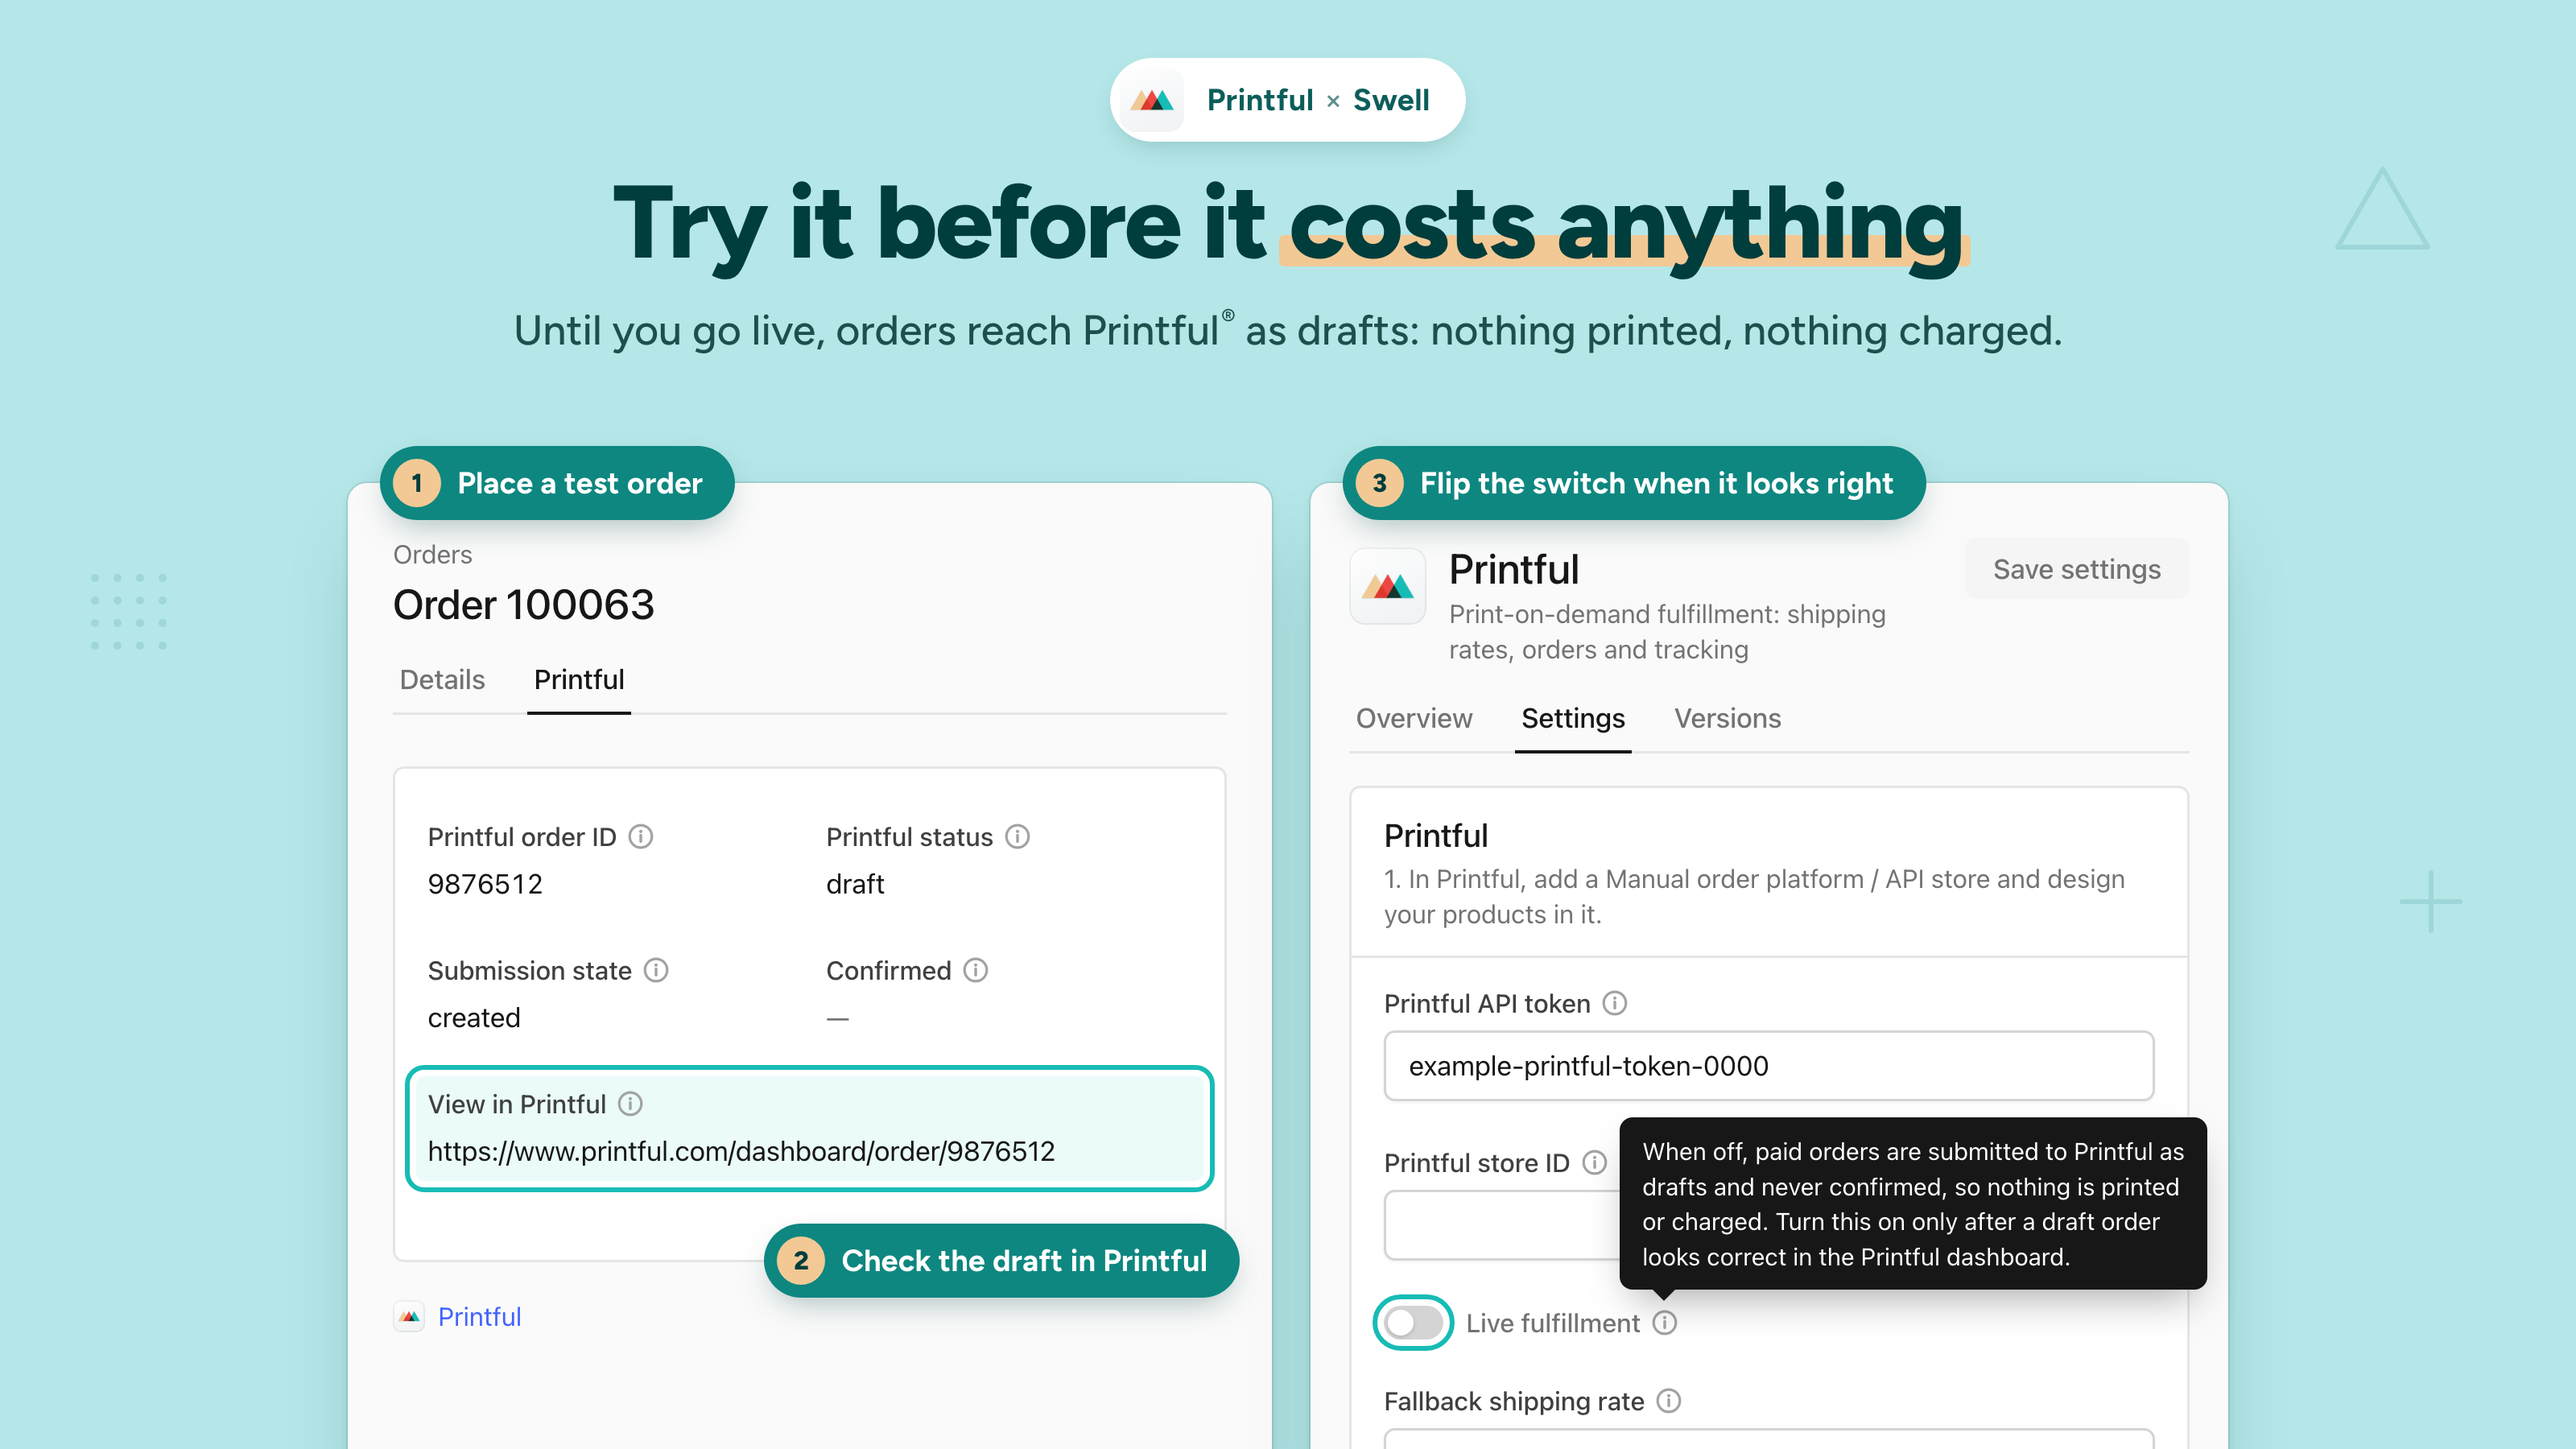
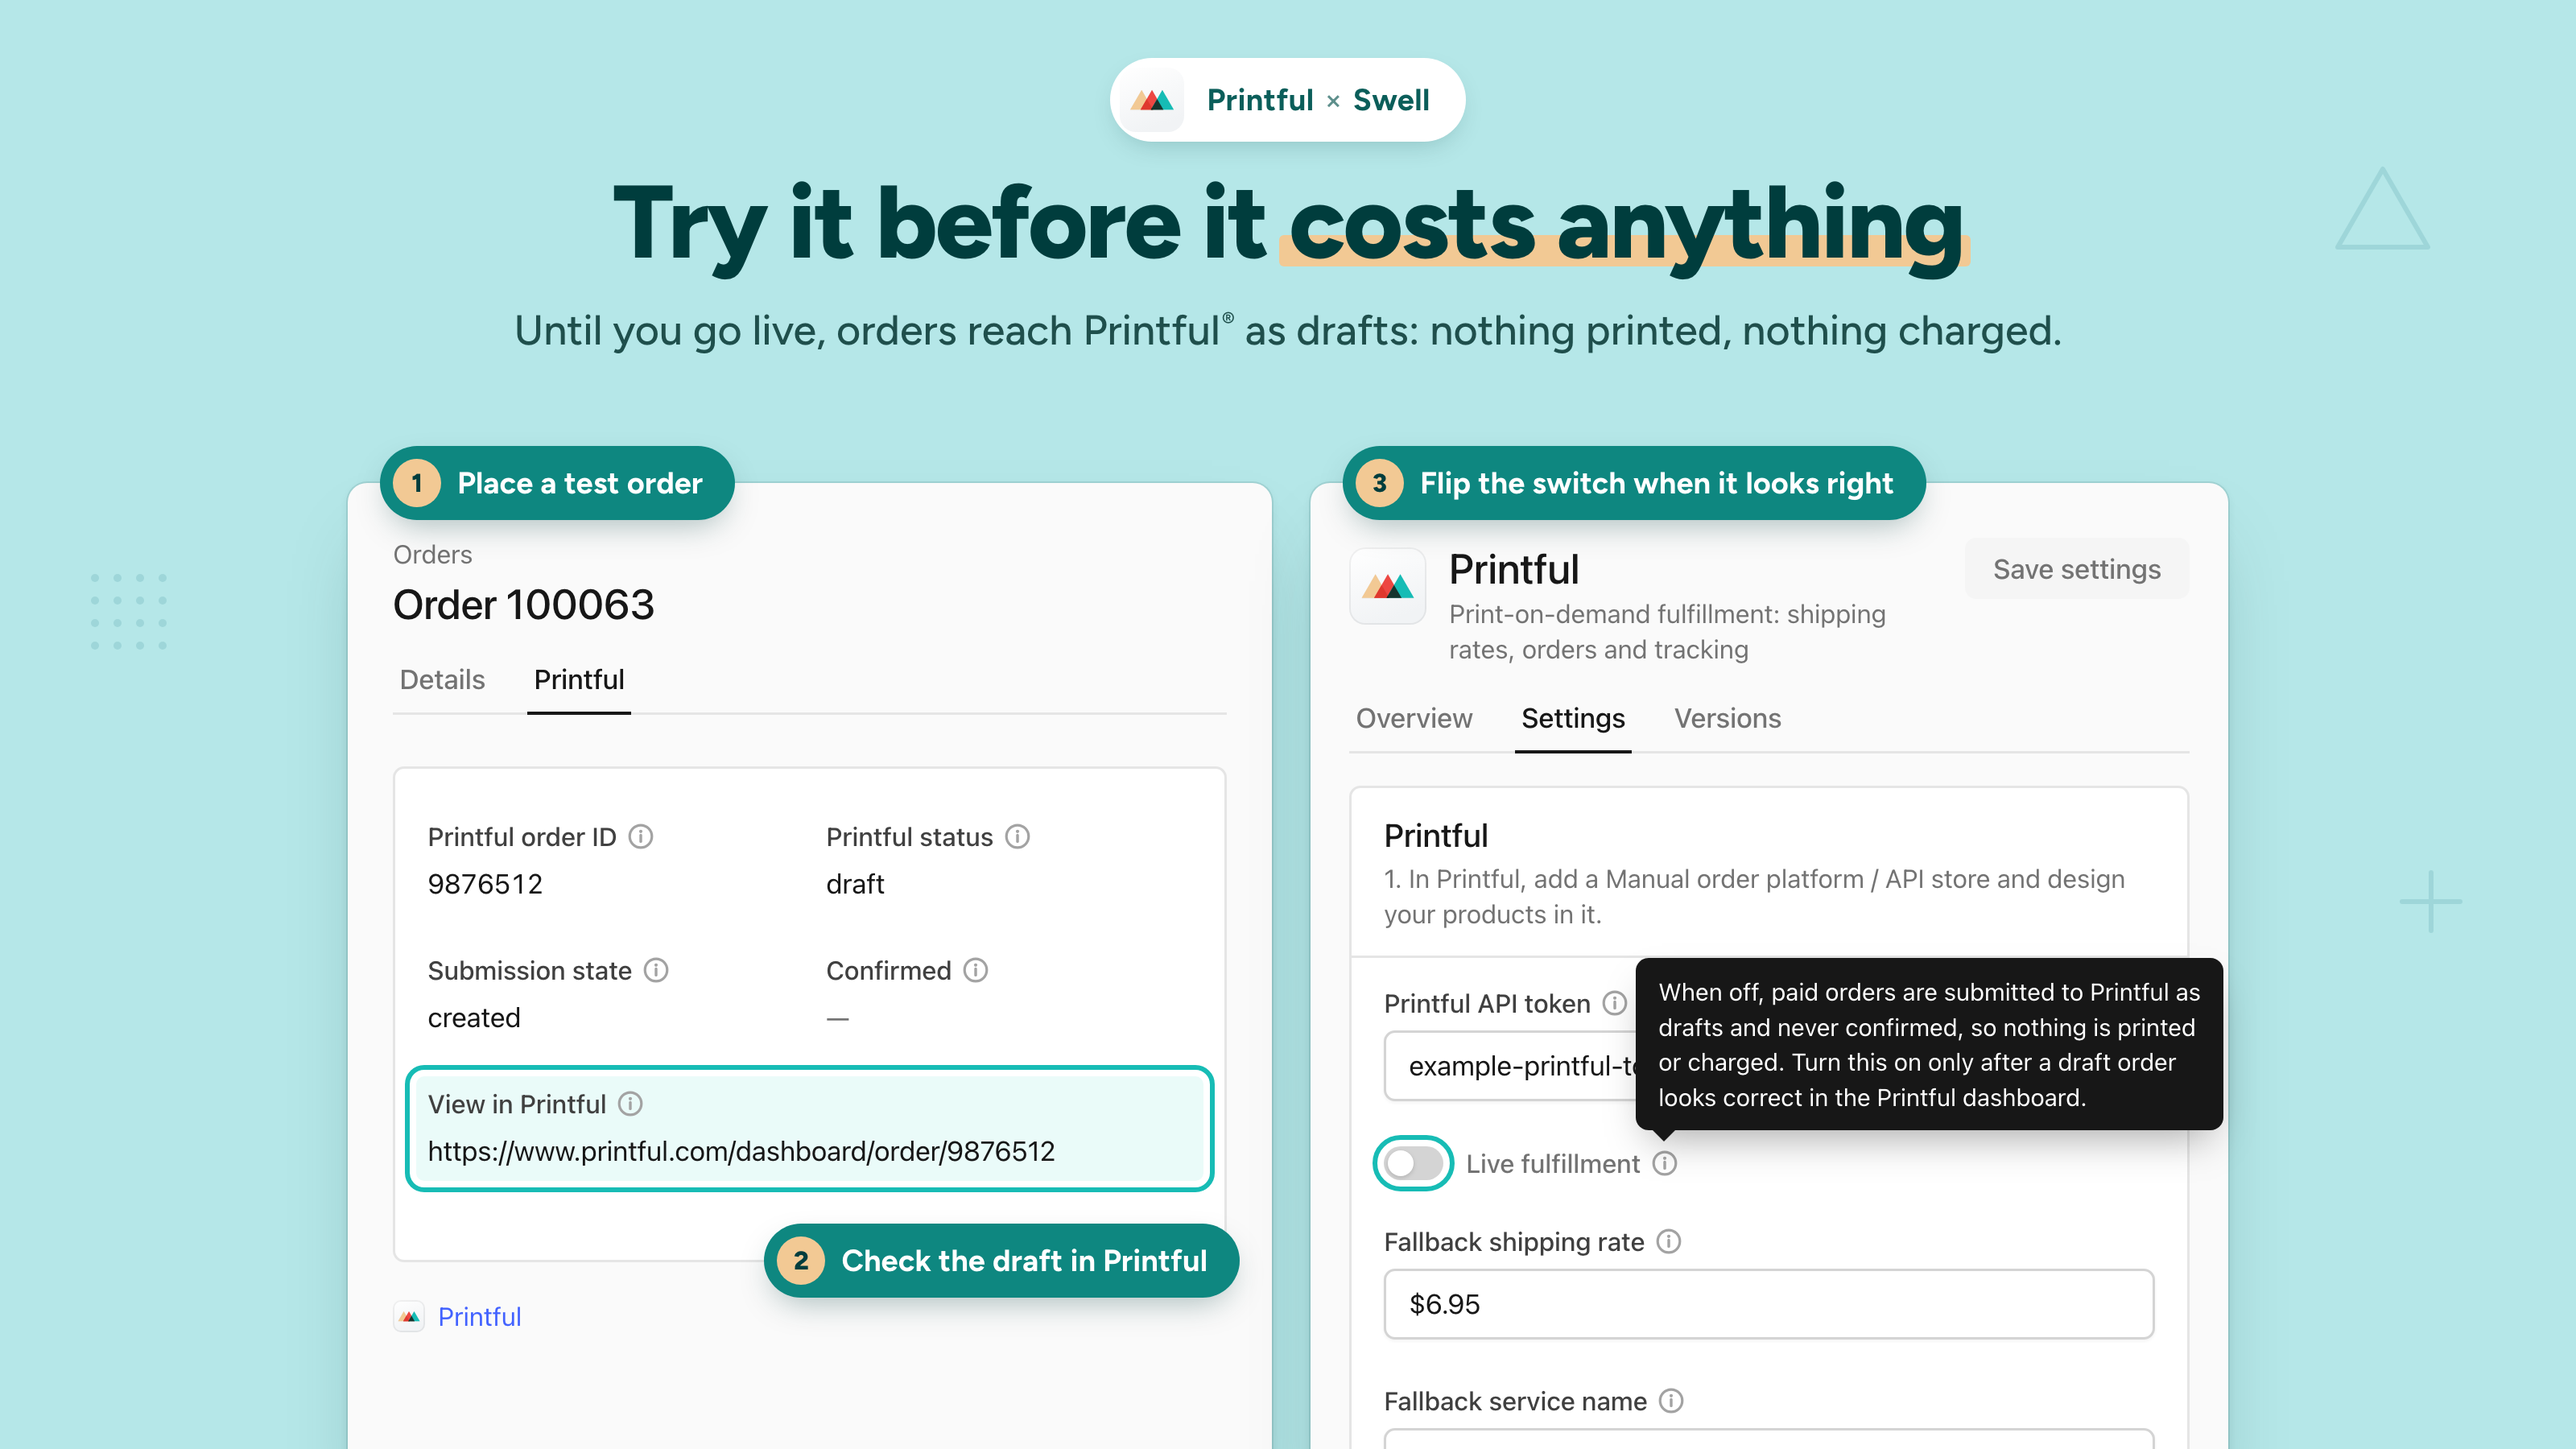
Require a store-level Printful token and drop the store ID setting
The Printful store ID was only needed for account-wide tokens. Tokens must
now have access to the one Manual order platform / API store, which
selects the store by itself, so the setting, the X-PF-Store-Id header and
the client's store parameter are gone. Listing image 3 no longer shows the
field.

diff --git a/functions/lib/printful.ts b/functions/lib/printful.ts
@@ -45,9 +45,7 @@ function hash(value: string): string {
 
 /**
  * Identifies the budget a reading belongs to. Printful counts per token, so the
- * token alone is the key: one account-level token used against two Printful
- * store ids spends one budget, and keying by store as well would file the two
- * halves separately and let the app walk into a 429 it could have predicted.
+ * token alone is the key.
  */
 export function rateLimitKey(token: string): string {
   return hash(token);
@@ -121,17 +119,17 @@ export interface PrintfulRate {
   max_delivery_days?: number;
 }
 
+/**
+ * Talks to one Printful store. The app requires a store-level token, which
+ * needs no store header: the token itself selects the store.
+ */
 export default class Printful {
   #token: string;
-  #storeId: string | undefined;
   #signal: AbortSignal | undefined;
   #rateLimitKey: string;
 
-  constructor(token: string, storeId?: string, signal?: AbortSignal) {
+  constructor(token: string, signal?: AbortSignal) {
     this.#token = token;
-    // Only account-level tokens accept a store header; sending it with a
-    // store-level token is rejected.
-    this.#storeId = storeId || undefined;
     this.#signal = signal;
     this.#rateLimitKey = rateLimitKey(token);
   }
@@ -141,10 +139,6 @@ export default class Printful {
       Authorization: `Bearer ${this.#token}`,
       Accept: "application/json",
     });
-
-    if (this.#storeId) {
-      headers.set("X-PF-Store-Id", this.#storeId);
-    }
 
     if (body !== undefined) {
       headers.set("Content-Type", "application/json");

diff --git a/functions/lib/products.ts b/functions/lib/products.ts
@@ -769,7 +769,7 @@ export async function runProductSync(
   settings: PrintfulSettings,
   options: { budget?: number } = {},
 ): Promise<SyncResult> {
-  const printful = new Printful(settings.api_token as string, settings.store_id);
+  const printful = new Printful(settings.api_token as string);
 
   const budget: Budget = {
     used: 0,
@@ -874,7 +874,7 @@ export async function resyncProducts(
   products: any[],
   options: { replaceImages?: boolean } = {},
 ): Promise<ResyncResult> {
-  const printful = new Printful(settings.api_token as string, settings.store_id);
+  const printful = new Printful(settings.api_token as string);
 
   const budget: Budget = {
     used: 0,

diff --git a/functions/shipping-rates.ts b/functions/shipping-rates.ts
@@ -122,11 +122,7 @@ export default async function (req: SwellRequest) {
     const timer = setTimeout(() => controller.abort(), remainingMs);
 
     try {
-      const printful = new Printful(
-        settings.api_token,
-        settings.store_id,
-        controller.signal,
-      );
+      const printful = new Printful(settings.api_token, controller.signal);
 
       const response = await printful.getShippingRates({
         recipient,

diff --git a/functions/product-sync-run.ts b/functions/product-sync-run.ts
@@ -46,10 +46,7 @@ async function registerWebhook(
     options.url ||
     `${String(req.store.url).replace(/\/+$/, "")}/functions/${req.appId}/printful-webhook`;
 
-  const printful = new Printful(
-    settings.api_token as string,
-    settings.store_id,
-  );
+  const printful = new Printful(settings.api_token as string);
 
   const result = await printful.createWebhook({
     default_url: url,

diff --git a/functions/printful-event-handle.ts b/functions/printful-event-handle.ts
@@ -202,10 +202,7 @@ export default async function (req: SwellRequest) {
   }
 
   const settings = await getSettings(req);
-  const printful = new Printful(
-    settings.api_token as string,
-    settings.store_id,
-  );
+  const printful = new Printful(settings.api_token as string);
   const data = event.data ?? {};
 
   try {

diff --git a/test/unit/mapping.test.ts b/test/unit/mapping.test.ts
@@ -25,7 +25,7 @@ function driveCreate(orderItems: any[], links: VariantLink[]) {
 
   const get = vi.fn(async (url: string) => {
     if (url.startsWith("/settings/")) {
-      return { api_token: "token", store_id: "1" };
+      return { api_token: "token" };
     }
 
     if (url === "/orders/{id}") {

diff --git a/functions/fulfillment-advance.ts b/functions/fulfillment-advance.ts
@@ -271,7 +271,7 @@ export default async function (req: SwellRequest) {
     return;
   }
 
-  const printful = new Printful(settings.api_token, settings.store_id);
+  const printful = new Printful(settings.api_token);
 
   try {
     if (job.state === "pending") {

diff --git a/functions/lib/settings.ts b/functions/lib/settings.ts
@@ -1,6 +1,5 @@
 export interface PrintfulSettings {
   api_token?: string;
-  store_id?: string;
   live_fulfillment?: boolean;
   fallback_rate?: number;
   fallback_service_name?: string;

diff --git a/README.md b/README.md
@@ -11,8 +11,8 @@ This app has no storefront of its own and needs none. Everything it produces lan
 ## Setup
 
 1. **Design your products in Printful.** In Printful, add a store of the *Manual order platform / API* type, then add products to it with Printful's design tools: pick a product, place your artwork, generate mockups and set your retail prices.
-2. **Create a Printful token.** In Printful, go to Settings → Developers and create a private token for that store with the `orders`, `sync_products` and `webhooks` scopes.
-3. **Paste it into the app.** In Swell, open Apps → Printful → Settings and enter the token. If it is an account-level token that can see more than one Printful store, also fill in the store ID.
+2. **Create a Printful token.** In Printful, go to Settings → Developers and create a private token with access to that store only, with the `orders`, `sync_products` and `webhooks` scopes. Account-wide tokens are not supported.
+3. **Paste it into the app.** In Swell, open Apps → Printful → Settings and enter the token.
 4. **Enable the carrier.** Go to Settings → Shipping. The Printful row appears there. Toggle it on and click **Save changes**.
 
    This step is not optional and installing the app does not do it for you. Until the carrier row is saved as enabled, Swell never asks the app for rates and checkout silently shows only your native shipping services.
@@ -44,8 +44,7 @@ This app has no storefront of its own and needs none. Everything it produces lan
 
 | Setting | What it does |
 | --- | --- |
-| Printful API token | Private token from Printful Settings → Developers, for your Manual order platform / API store. Use a separate token for your test environment. |
-| Printful store ID | Only needed for account-level tokens that can see more than one store. |
+| Printful API token | Private token from Printful Settings → Developers with access to your Manual order platform / API store only. Use a separate token for your test environment. |
 | Live fulfillment | Off: paid orders become Printful drafts and stop there. On: they are confirmed for production and charged. |
 | Fallback shipping rate | Flat rate offered when Printful is slow or rate-limited. Empty means offer nothing rather than a wrong price. |
 | Fallback service name | What that rate is called at checkout. |
